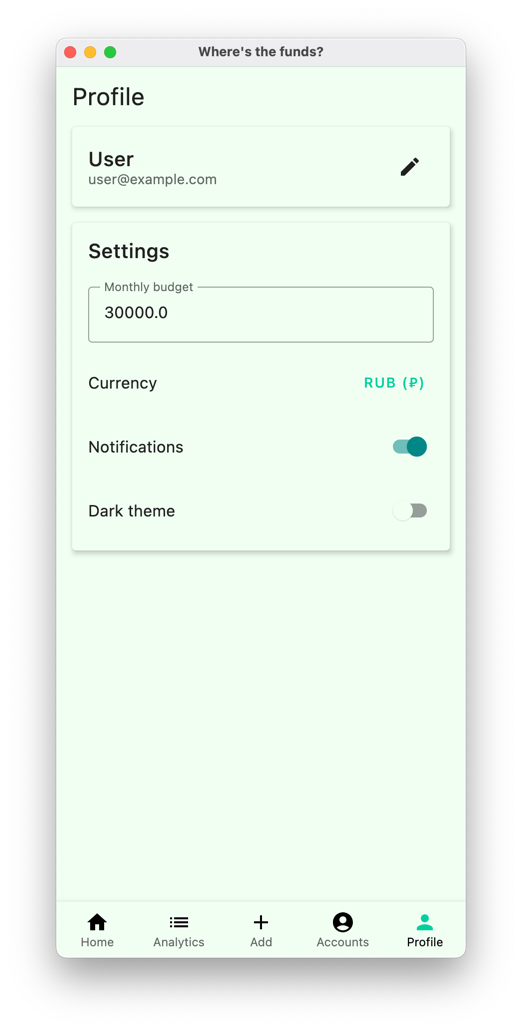
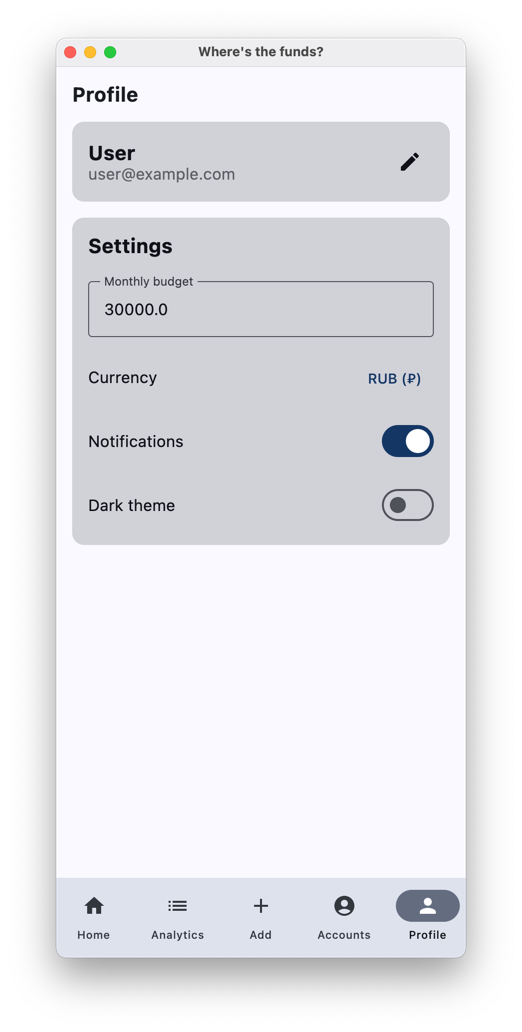
Feat: Fix app name and screenshots

diff --git a/composeApp/src/commonMain/kotlin/dev/mingaliev/wtf/designsystem/Theme.kt b/composeApp/src/commonMain/kotlin/dev/mingaliev/wtf/designsystem/Theme.kt
@@ -84,7 +84,7 @@ private val darkColorScheme = darkColorScheme(
 
 @Composable
 fun AppTheme(content: @Composable () -> Unit) = MaterialTheme(
-    colorScheme = if (isSystemInDarkTheme()) darkColorScheme else lightColorScheme,
+    colorScheme = if (!isSystemInDarkTheme()) darkColorScheme else lightColorScheme,
     typography = AppTypography,
     content = content
 )

diff --git a/README.md b/README.md
@@ -1,10 +1,10 @@
-# WTF? (Where's The Funds?)
+# WTF? (Where are The Funds?)
 
 A modern, minimalist expense tracking application built with Compose Multiplatform. This project serves as an experimental playground to explore the capabilities of Compose Multiplatform for building cross-platform applications.
 
 ## About
 
-WTF? (Where's The Funds?) is a personal finance management application that helps you track your expenses and income with a clean, intuitive interface. The project showcases the power of Kotlin and Compose Multiplatform while maintaining a focus on user experience and modern design principles.
+WTF? (Where are The Funds?) is a personal finance management application that helps you track your expenses and income with a clean, intuitive interface. The project showcases the power of Kotlin and Compose Multiplatform while maintaining a focus on user experience and modern design principles.
 
 ## Features
 
@@ -38,11 +38,31 @@ The development process showcases how AI can be leveraged to accelerate developm
 
 ## Screenshots
 
+#### Desktop (macOS)
+
 <p align="center">
   <img src="screenshots/home.png" width="200" alt="Home Screen"/>
   <img src="screenshots/statistics.png" width="200" alt="Statistics Screen"/>
   <img src="screenshots/add.png" width="200" alt="Add Transaction Screen"/>
   <img src="screenshots/profile.png" width="200" alt="Profile Screen"/>
+</p>
+
+#### Android
+
+<p align="center">
+  <img src="screenshots/home-android.png" width="200" alt="Home Screen"/>
+  <img src="screenshots/statistics-android.png" width="200" alt="Statistics Screen"/>
+  <img src="screenshots/add-android.png" width="200" alt="Add Transaction Screen"/>
+  <img src="screenshots/profile-android.png" width="200" alt="Profile Screen"/>
+</p>
+
+#### iOS
+
+<p align="center">
+  <img src="screenshots/home-ios.png" width="200" alt="Home Screen"/>
+  <img src="screenshots/statistics-ios.png" width="200" alt="Statistics Screen"/>
+  <img src="screenshots/add-ios.png" width="200" alt="Add Transaction Screen"/>
+  <img src="screenshots/profile-ios.png" width="200" alt="Profile Screen"/>
 </p>
 
 ## Development Status
